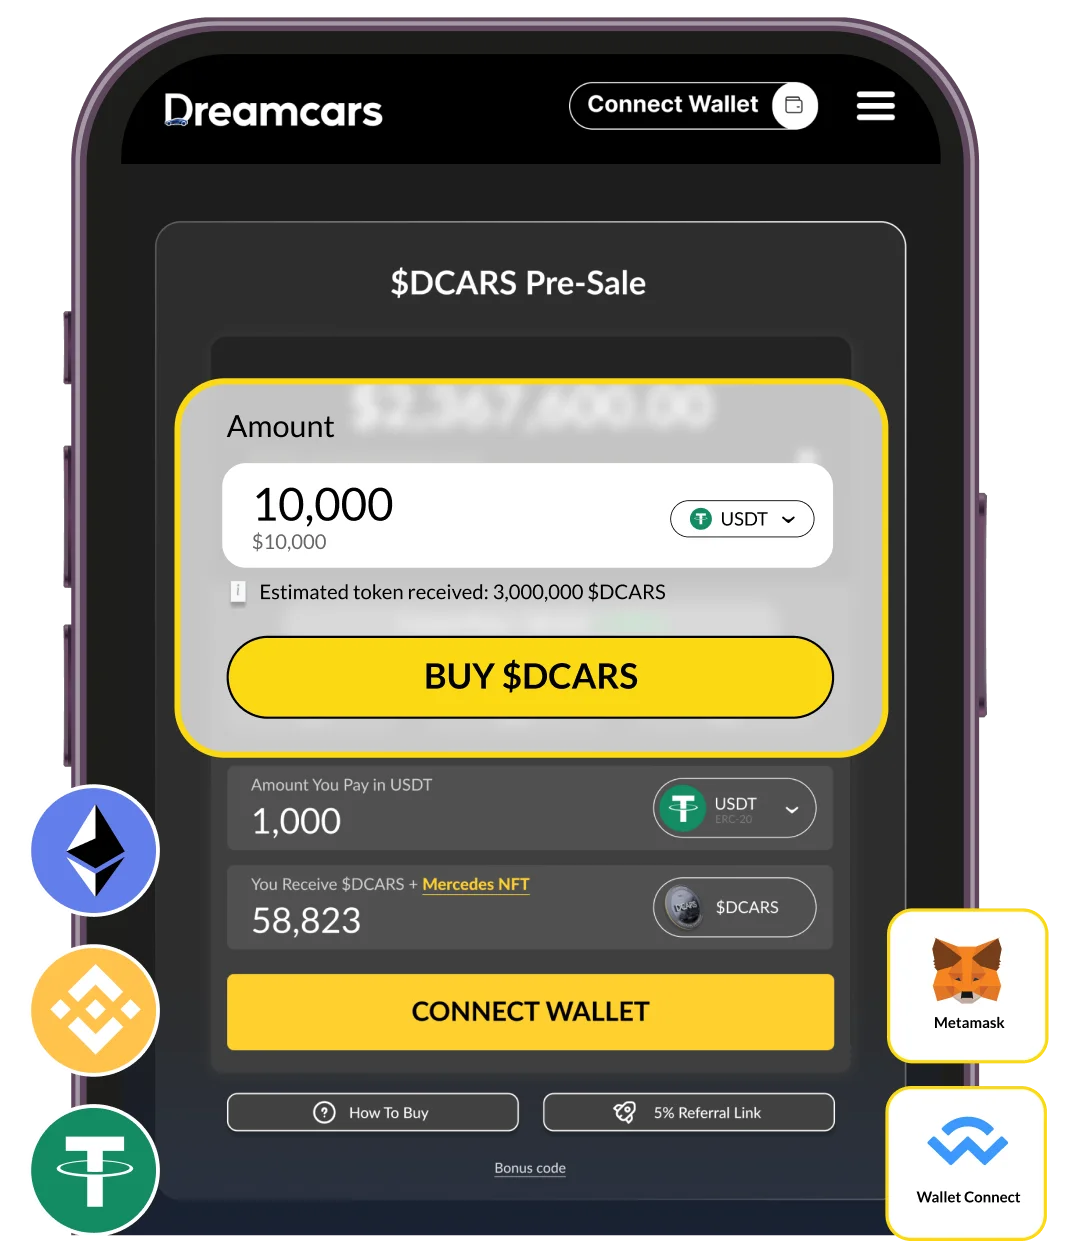
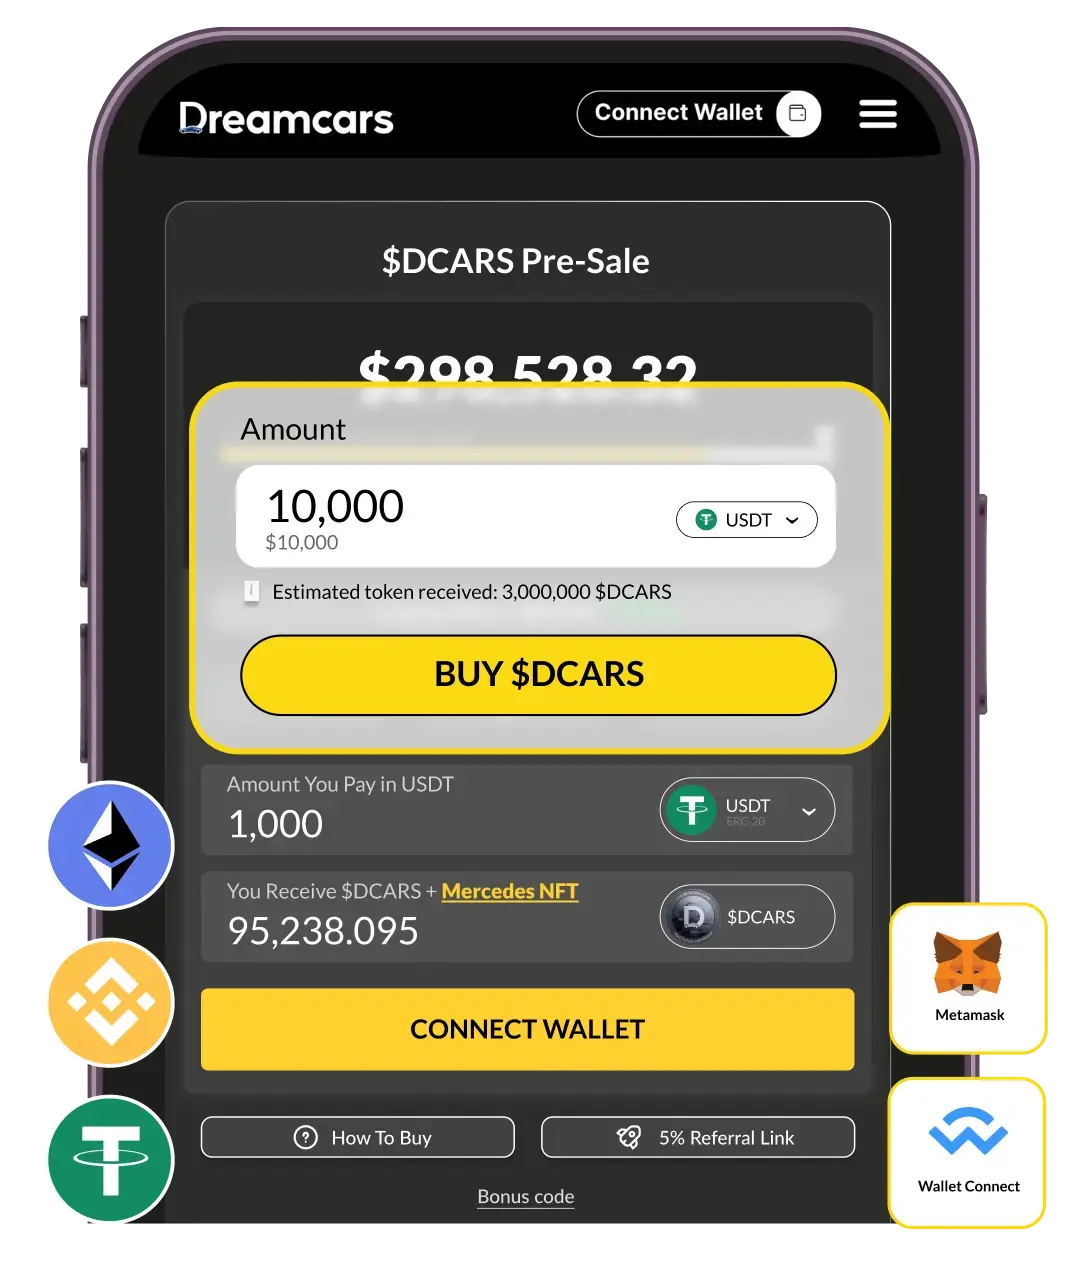
images and text updated

Changed region(s): [[0.0306, 0.0, 0.9778, 0.9944], [0.8861, 0.5283, 0.9167, 0.5904], [0.8861, 0.3729, 0.9167, 0.4351]]

diff --git a/src/Page/Home/Distribution.jsx b/src/Page/Home/Distribution.jsx
@@ -41,7 +41,7 @@ const DistributionSection = () => {
                 </div>
                 <div className="w-[50%] py-[35px] px-[50px] xs:py-[15px] xs:px-[18px] border-l border-[#374151] space-y-[5px]">
                   <p className="text-[#FFF] xs:text-[22px] font-[Lato] text-[40px] font-[600]">
-                  86%
+                  99.51%
                   </p>
                   <h4 className="text-[16px] xs:text-[16px] font-[Lato] font-[400] text-[#fff]">
                   {t('DistributionSection.Soldpara3')} <br /> {t('DistributionSection.Soldpara4')}

diff --git a/src/Page/Home/BuySection.jsx b/src/Page/Home/BuySection.jsx
@@ -27,7 +27,7 @@ const BuySection = () => {
                 </a>
               </div>
         <div className="xs:pt-[10px] space-y-[4rem] w-full block xs:space-y-3 sm:space-y-3 md:space-y-3">
-        <div className="2xl:flex xl:flex lg:flex md:flex sm:hidden hidden justify-center">
+        <div className="2xl:flex xl:flex w-[92%] m-auto lg:flex md:flex sm:hidden hidden justify-center">
             <img className="" src={Buyimg} alt="" />
           </div>
           <div className="2xl:hidden xl:hidden lg:hidden md:hidden sm:flex flex justify-center">
